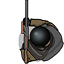
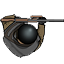
Images edited. Fps updated.

diff --git a/main.py b/main.py
@@ -67,12 +67,12 @@ class Weapon:
         self.velocity = velocity
         self.img = img
         self.spr = pygame.sprite.Sprite()
-        self.spr.image = self.img.convert()
+        self.spr.image = self.img.convert_alpha()
         self.spr.rect = self.spr.image.get_rect()
         self.spr.rect.x, self.spr.rect.y = (10, screen.get_height() - 100)
         im = pygame.transform.scale(self.img, (self.img.get_width() // 3, self.img.get_height() // 3))
         self.sm_spr = pygame.sprite.Sprite()
-        self.sm_spr.image = im.convert()
+        self.sm_spr.image = im.convert_alpha()
         self.sm_spr.rect = self.spr.image.get_rect()
 
     def drop(self, x, y):
@@ -163,7 +163,7 @@ class MainHero(Character):
     def __init__(self, pos):
         super().__init__('hero')
         self.weapons = [Weapon('simple pistol', 10, 400, loadings.load_image('default_pistol.png'), 10),
-                        Weapon('AK-47', 30, 600, loadings.load_image('ak-47.png'), 20),
+                        Weapon('AK-47', 20, 500, loadings.load_image('ak-47.png'), 20),
                         Weapon('Machine-gun', 10, 400, loadings.load_image('machine-gun.png'), 13)]
         self.slot_number = 0
         self.image = loadings.load_image('good_stay.png')
@@ -194,7 +194,6 @@ class MainHero(Character):
         else:
             self.image = loadings.load_image('good_stay.png')
         self.rotate_image(pygame.mouse.get_pos())
-        self.image = self.image.convert_alpha()
         self.mask = pygame.mask.from_surface(self.image)
         self.rect = self.rect.move(next_x, next_y)
         if pygame.sprite.spritecollideany(self, obstacles, collided=collide_with_mask) is not None:
@@ -230,7 +229,7 @@ class Enemy(Character):
         pygame.time.set_timer(self.check_shooting, 100)
 
     def update_enemy(self):
-        if pygame.event.peek(self.check_shooting):
+        if pygame.event.peek(self.check_shooting) and 0 <= self.rect.x <= width - self.rect.w and 0 <= self.rect.y <= height - self.rect.h:
             pygame.event.get(self.check_shooting)
             self.check()
         if self.shooting:
@@ -255,15 +254,12 @@ class Enemy(Character):
             self.kill()
 
     def check(self):
-        if 0 <= self.rect.x <= width - self.rect.w and 0 <= self.rect.y <= height - self.rect.h:
-            invis = InvisBullet(self.rect.center, self.weapon.radius)
-            if invis.check_avail(hero.rect.center):
-                self.shooting = True
-            else:
-                self.shooting = False
-            invis.kill()
+        invis = InvisBullet(self.rect.center, self.weapon.radius)
+        if invis.check_avail(hero.rect.center):
+            self.shooting = True
         else:
             self.shooting = False
+        invis.kill()
 
     def shoot(self):
         delta_x = hero.rect.centerx - self.rect.centerx
